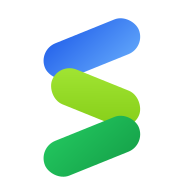
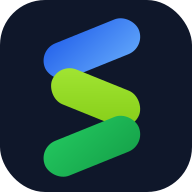
Сделал базовое подключение в проекте.
Что уже применено:

Заменил PWA-иконки:
static/icon-192.png ← servora-app-icon-192.png
static/icon-512.png ← servora-app-icon-512.png
Добавил бренд-файлы в static:
favicon.ico
servora-app-icon.svg
servora-icon.svg
servora-logo-dark.svg
servora-logo-light.svg
Подключил favicon на корне через роут:
main.py:2688 (/favicon.ico)
Почему этого достаточно:

В шаблонах у тебя уже используется /static/icon-192.png в шапках и в PWA.
После замены файлов новый бренд начнет показываться автоматически.

diff --git a/main.py b/main.py
@@ -2685,6 +2685,11 @@ def pwa_manifest():
     return FileResponse(PWA_STATIC_DIR / "manifest.webmanifest", media_type="application/manifest+json")
 
 
+@app.get("/favicon.ico")
+def favicon():
+    return FileResponse(PWA_STATIC_DIR / "favicon.ico", media_type="image/x-icon")
+
+
 @app.get("/sw.js")
 def service_worker():
     return FileResponse(PWA_STATIC_DIR / "sw.js", media_type="application/javascript")
